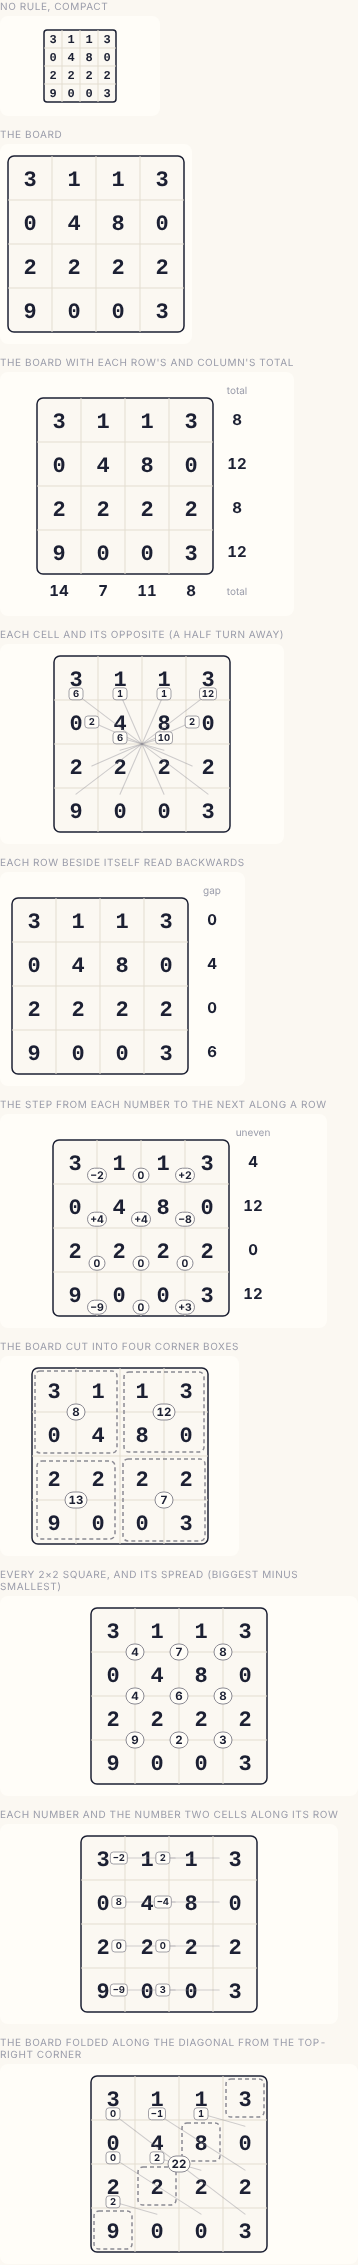
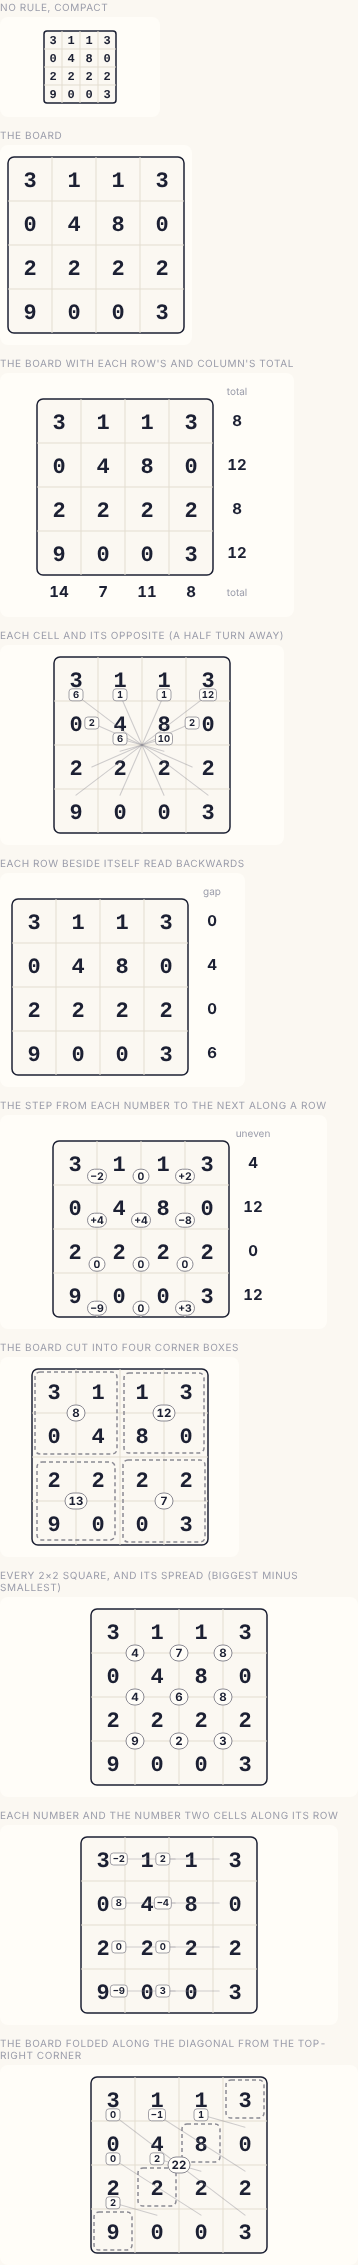
Plane: the general form only for one line; colours held within one drawing of a move (said)
Claude-Session: https://claude.ai/code/session_0119hWTTneiee5zMGReiz7sy

diff --git a/lib/v2-views/src/render/plane.tsx b/lib/v2-views/src/render/plane.tsx
@@ -125,7 +125,8 @@ export function insetBox(box: { w: number; h: number }, compact: boolean): Rect 
 function lineCoeffs(p: Pick<P, "values" | "scene">): { a: number; b: number; c: number; ref: ElementRef | null } | null {
   const item = p.scene.items.find(i => i.draw === "line");
   const gen = (name: string) => p.values({ rep: "gen", name });
-  try {
+  // A system of several lines: the first item is the main line (the general form, if any, is one line's).
+  if (p.scene.items.filter(i => i.draw === "line").length <= 1) try {
     const a = gen("a"), b = gen("b"), c = gen("c");
     if (a.kind === "number" && b.kind === "number" && c.kind === "number") return { a: N(a.q), b: N(b.q), c: N(c.q), ref: item?.el ?? null };
   } catch { /* an object type without a general form */ }
@@ -380,7 +381,9 @@ const lineThrough = (v: Viewport, s: [XY, XY]) => {
 /**
  * Each line item's colour (0, 1, …) on a plane of several lines: by item order, except across a move (`before`), where
  * a line keeps the colour it had although the canonical order of a system's lines may have flipped: an unchanged line
- * keeps its colour, then a line parallel to one before (a slide) takes that one's, then the rest in order.
+ * keeps its colour, then a line parallel to one before (a slide) takes that one's, then the rest in order. The colours
+ * hold within one drawing of a move (before and after); a stored state is canonical and remembers no colours, so a
+ * drawing of one state alone colours by item order.
  */
 export function lineColours(now: readonly ElementValue[], before?: readonly ElementValue[]): number[] {
   const n = now.length;
